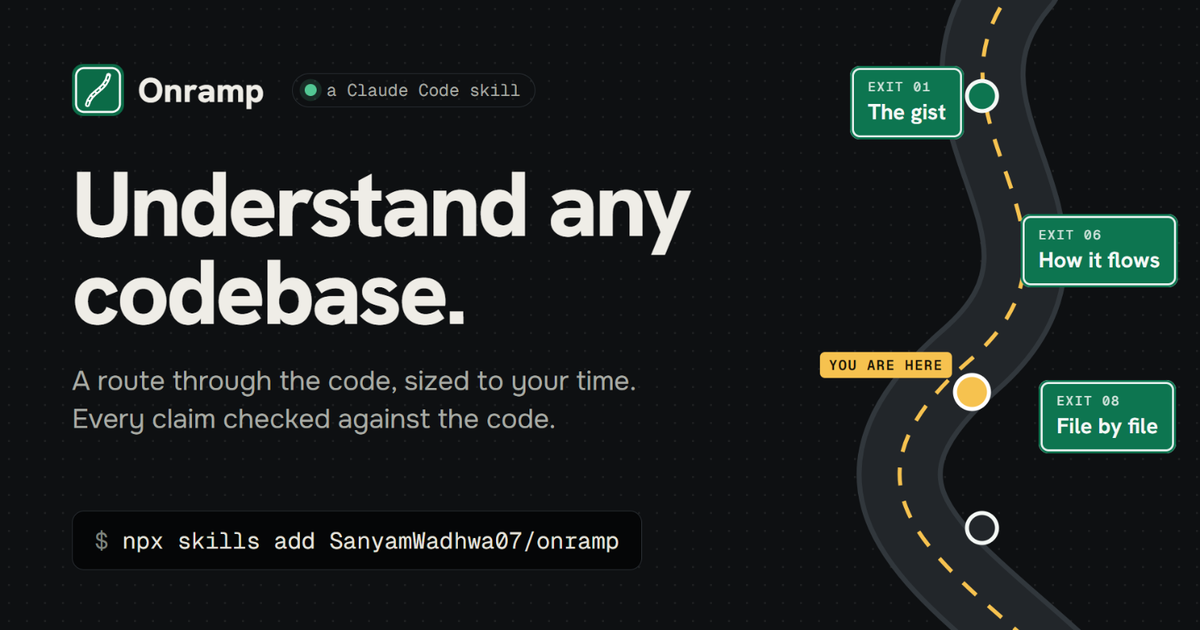
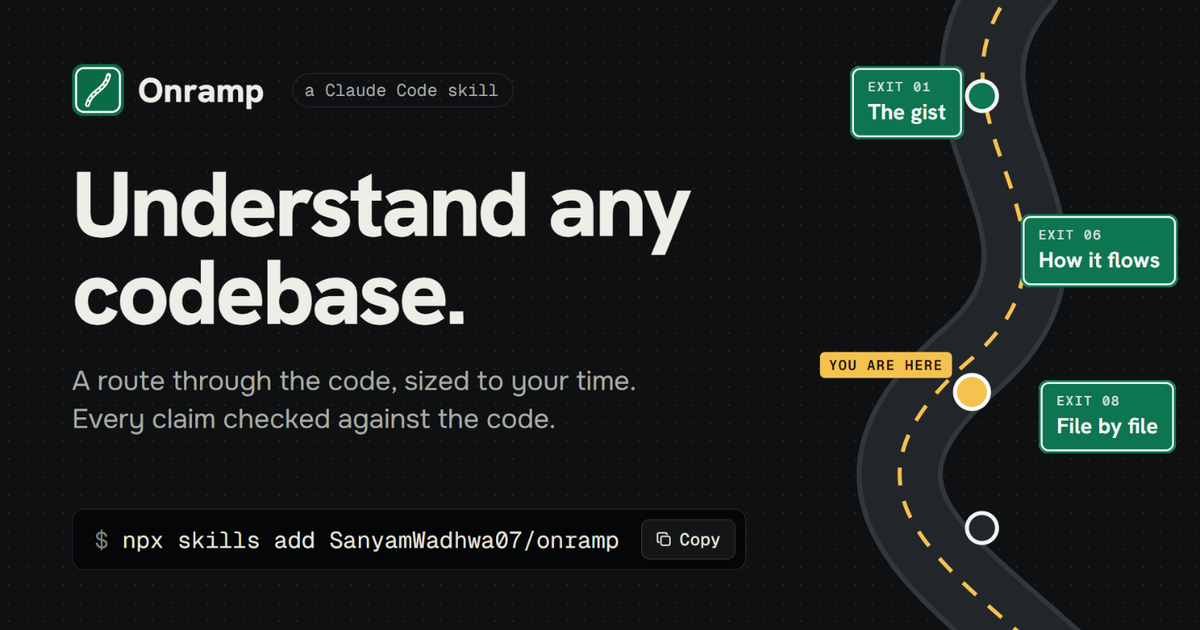
Website: detailed walkthrough, copy buttons, no decorative status dots
- 'What it actually does': eight steps with a scroll-tracked step list and real output
- copy buttons on every command, including the social card's install line
- removed the glowing status dots from the guide header, site and social card
- scan: the dirty flag ignores untracked files such as .onramp/

Changed region(s): [[0.0617, 0.8444, 0.6167, 0.8746], [0.2467, 0.1206, 0.4317, 0.181]]

diff --git a/docs/index.html b/docs/index.html
@@ -54,6 +54,7 @@
   color-scheme: dark;
 }
 *, *::before, *::after { box-sizing: border-box; }
+[hidden] { display: none !important; }
 html { -webkit-text-size-adjust: 100%; scroll-behavior: smooth; scroll-padding-top: 80px; }
 body { margin: 0; background: var(--bg); color: var(--text); font-family: var(--font-body); font-weight: 440; font-size: 1rem; line-height: 1.6; -webkit-font-smoothing: antialiased; }
 a { color: var(--accent); text-underline-offset: 3px; }
@@ -127,7 +128,6 @@ body::before { content: ""; position: fixed; inset: 0 0 auto; height: env(safe-a
 /* strip */
 .strip { border-block: 1px solid var(--border); }
 .strip .wrap { display: flex; flex-wrap: wrap; gap: 10px 34px; padding-block: 18px; font-family: var(--font-mono); font-size: 0.8rem; color: var(--muted); }
-.strip span::before { content: "\25cf"; color: var(--accent); margin-right: 8px; font-size: 0.7em; }
 
 /* rows */
 section.block { padding-block: 88px 24px; }
@@ -146,7 +146,7 @@ section.block { padding-block: 88px 24px; }
 
 /* feature visuals */
 .vis { border: 1px solid var(--border); border-radius: 12px; background: var(--surface); padding: 16px; display: grid; gap: 10px; min-width: 0; }
-.term { background: var(--code-bg); color: var(--code-ink); border-radius: 12px; padding: 16px 18px; font-family: var(--font-mono); font-size: 0.8rem; line-height: 1.7; overflow-x: auto; border: 1px solid var(--border); }
+.term { background: var(--code-bg); color: var(--code-ink); border-radius: 12px; padding: 16px 18px; min-width: 0; font-family: var(--font-mono); font-size: 0.8rem; line-height: 1.7; overflow-x: auto; border: 1px solid var(--border); }
 .term .c { color: var(--code-muted); }
 .term .ok { color: #57d39a; font-weight: 600; }
 .term .fix { color: #f2c35b; }
@@ -174,17 +174,37 @@ section.block { padding-block: 88px 24px; }
 .exit b { font-family: var(--font-head); font-weight: 700; font-size: 1.12rem; }
 .exit span { font-size: 0.84rem; opacity: 0.88; line-height: 1.4; }
 
-/* pipeline */
-.pipe { position: relative; border: 1px solid var(--border); border-radius: 16px; background-color: var(--surface); background-image: radial-gradient(var(--grid-dot) 1px, transparent 1px); background-size: 16px 16px; padding: 30px 24px; display: grid; grid-template-columns: repeat(4, minmax(0, 1fr)); gap: 16px; }
-.pipe::before, .pipe::after { content: ""; position: absolute; width: 16px; height: 16px; border: 1.5px solid var(--border-strong); }
-.pipe::before { top: 10px; left: 10px; border-right: 0; border-bottom: 0; }
-.pipe::after { bottom: 10px; right: 10px; border-left: 0; border-top: 0; }
-.stage { background: var(--bg); border: 1px solid var(--border); border-radius: 10px; padding: 16px; display: grid; gap: 8px; align-content: start; position: relative; }
-.stage:not(:last-child)::after { content: "\2192"; position: absolute; right: -14px; top: 18px; font-family: var(--font-mono); color: var(--subtle); }
-.stage .n { font-family: var(--font-mono); font-size: 0.72rem; color: var(--accent); letter-spacing: 0.06em; }
-.stage h3 { font-size: 1.05rem; font-family: var(--font-mono); font-weight: 600; }
-.stage p { font-size: 0.88rem; color: var(--muted); }
-.stage.check { border-color: color-mix(in srgb, var(--lane-strong) 60%, var(--border)); }
+
+/* walkthrough */
+.walk { display: grid; grid-template-columns: 220px minmax(0, 1fr); gap: 36px; align-items: start; }
+.walk-nav { position: sticky; top: 96px; display: grid; gap: 2px; border-left: 2px solid var(--border); }
+.walk-nav a { display: grid; grid-template-columns: 30px 1fr; padding: 7px 0 7px 14px; margin-left: -2px; border-left: 2px solid transparent; color: var(--muted); text-decoration: none; font-family: var(--font-head); font-weight: 500; }
+.walk-nav a b { font-family: var(--font-mono); font-weight: 500; font-size: 0.78rem; color: var(--subtle); padding-top: 3px; }
+.walk-nav a:hover { color: var(--ink); }
+.walk-nav a.on { color: var(--ink); border-left-color: var(--lane-strong); }
+.walk-nav a.on b { color: var(--lane); }
+.walk-steps { display: grid; min-width: 0; }
+.walk-step { display: grid; gap: 14px; padding-block: 30px 34px; border-top: 1px solid var(--border); scroll-margin-top: 90px; min-width: 0; }
+.walk-step:first-child { border-top: 0; padding-top: 0; }
+.walk-step header { display: flex; flex-wrap: wrap; align-items: baseline; gap: 6px 14px; }
+.walk-step header .no { font-family: var(--font-mono); font-size: 0.86rem; color: var(--accent); }
+.walk-step header h3 { font-weight: 700; font-size: clamp(1.3rem, 2vw, 1.6rem); letter-spacing: -0.015em; }
+.walk-step header .who { margin-left: auto; font-family: var(--font-mono); font-size: 0.72rem; letter-spacing: 0.04em; color: var(--muted); border: 1px solid var(--border); border-radius: 999px; padding: 2px 10px; white-space: nowrap; }
+.walk-step header .who.script { color: var(--accent); border-color: color-mix(in srgb, var(--accent) 40%, var(--border)); }
+.walk-step header .who.claude { color: var(--lane); border-color: color-mix(in srgb, var(--lane) 45%, var(--border)); }
+.walk-step > p { color: var(--muted); max-width: 44em; }
+.walk-step > p strong { color: var(--ink); font-weight: 600; }
+.steps-list { margin: 0; padding-left: 1.2em; display: grid; gap: 6px; color: var(--muted); max-width: 44em; }
+.steps-list strong { color: var(--ink); font-weight: 600; }
+.facts { display: grid; grid-template-columns: auto minmax(0, 1fr); gap: 6px 16px; margin: 0; font-size: 0.92rem; }
+.facts dt { color: var(--subtle); font-family: var(--font-head); font-weight: 500; }
+.facts dd { margin: 0; color: var(--text); }
+kbd { font-family: var(--font-mono); font-size: 0.78em; border: 1px solid var(--border-strong); border-bottom-width: 2px; border-radius: 4px; padding: 0 5px; }
+.term { position: relative; white-space: pre; }
+.term .copy { position: absolute; top: 10px; right: 10px; }
+.cmds .copy { height: 28px; padding: 0 10px; border-color: var(--border); background: var(--surface); color: var(--muted); }
+.cmds .copy:hover { color: var(--ink); background: var(--surface-2); }
+.cmds td.c-copy { width: 1%; padding-left: 16px; text-align: right; }
 
 /* demos */
 .demos { display: grid; grid-template-columns: repeat(2, minmax(0, 1fr)); gap: 16px; }
@@ -217,17 +237,17 @@ footer .wrap { display: flex; flex-wrap: wrap; justify-content: space-between; g
 footer a { color: var(--muted); }
 
 @media (max-width: 960px) {
+  .walk { grid-template-columns: minmax(0, 1fr); gap: 8px; }
+  .walk-nav { top: 64px; z-index: 5; display: flex; overflow-x: auto; gap: 4px; border-left: 0; border-bottom: 1px solid var(--border); background: var(--bg); padding-block: 8px; margin-inline: -4px; scrollbar-width: none; }
+  .walk-nav a { grid-template-columns: auto auto; gap: 6px; border-left: 0; margin: 0; padding: 6px 10px; border-radius: 6px; white-space: nowrap; }
+  .walk-nav a.on { background: var(--surface-2); }
   .hero { grid-template-columns: minmax(0, 1fr); padding-top: 44px; gap: 40px; }
   .row { grid-template-columns: minmax(0, 1fr); gap: 16px; }
   .row .content { grid-template-columns: minmax(0, 1fr); }
-  .pipe { grid-template-columns: repeat(2, minmax(0, 1fr)); }
-  .stage:nth-child(2)::after { display: none; }
   .demos { grid-template-columns: minmax(0, 1fr); }
   .nav-links { display: none; }
 }
 @media (max-width: 560px) {
-  .pipe { grid-template-columns: minmax(0, 1fr); }
-  .stage::after { display: none; }
   .cmds td:first-child { white-space: normal; word-break: break-word; }
   .nav .btn span { display: none; }
 }
@@ -385,14 +405,85 @@ footer a { color: var(--muted); }
 
   <section class="wrap block" id="how">
     <div class="block-head">
-      <span class="eyebrow">How it works</span>
-      <h2>Deterministic where it can be. Checked where it can't.</h2>
+      <span class="eyebrow">What it actually does</span>
+      <h2>Eight steps from <span class="mono" style="font-weight:600">/onramp</span> to understanding.</h2>
+      <p>Scripts do every step that can be done without a model. Claude reads and writes. A script checks Claude's work before you ever see it. This is the real output from running it on PaperMind.</p>
     </div>
-    <div class="pipe">
-      <div class="stage"><span class="n">01 &middot; NO MODEL</span><h3>scan.py</h3><p>Files, languages, manifests, entry points, an import graph for eight language families, git history and env vars. Ranks what to read first.</p></div>
-      <div class="stage"><span class="n">02 &middot; CLAUDE</span><h3>read &amp; write</h3><p>Claude reads in that order and follows real actions from the click to the database. It writes lessons with time estimates, flows, file cards, decisions and risks.</p></div>
-      <div class="stage check"><span class="n">03 &middot; NO MODEL</span><h3>verify.py</h3><p>Checks every citation against the code. Fixes drift, rejects unsupported claims, and loops until clean.</p></div>
-      <div class="stage"><span class="n">04 &middot; NO MODEL</span><h3>render.py</h3><p>One self-contained HTML page with the real excerpts embedded, plus a <span class="mono">GUIDE.md</span> for GitHub and agents.</p></div>
+    <div class="walk">
+      <nav class="walk-nav" aria-label="Steps">
+        <a href="#step-run"><b>01</b>You run it</a>
+        <a href="#step-scan"><b>02</b>Scan</a>
+        <a href="#step-history"><b>03</b>History</a>
+        <a href="#step-read"><b>04</b>Read</a>
+        <a href="#step-write"><b>05</b>Write</a>
+        <a href="#step-verify"><b>06</b>Verify</a>
+        <a href="#step-render"><b>07</b>Render</a>
+        <a href="#step-learn"><b>08</b>Learn</a>
+      </nav>
+      <div class="walk-steps">
+        <article class="walk-step" id="step-run">
+          <header><span class="no">01</span><h3>You run it</h3><span class="who">you</span></header>
+          <p>Open Claude Code in any repository and type the command. Point it at a subfolder to cover one package of a monorepo. Claude says what it is doing at each step, and everything it produces goes into <span class="mono">.onramp/</span>. Your code is never modified.</p>
+          <div class="term"><div><span class="c">&gt;</span> /onramp</div><button class="copy" type="button" data-copy="/onramp">Copy</button></div>
+          <dl class="facts"><dt>Writes</dt><dd><span class="mono">.onramp/index.html</span>, <span class="mono">GUIDE.md</span>, <span class="mono">guide.json</span>, <span class="mono">scan.json</span></dd><dt>Needs</dt><dd>Python 3.8+ and nothing else</dd></dl>
+        </article>
+
+        <article class="walk-step" id="step-scan">
+          <header><span class="no">02</span><h3>Scan the repository</h3><span class="who script">script &middot; no model</span></header>
+          <p><span class="mono">scan.py</span> takes inventory in seconds, without a model. It reads <span class="mono">.gitignore</span>, counts files and lines per language, parses manifests, finds entry points and env vars, and builds an import graph for JS/TS, Python, Go, Rust, Java/Kotlin, C/C++, Ruby and PHP. It also reads git history for churn and a timeline.</p>
+          <p>Every file then gets an importance score. The score goes up with how many files import it, how often it changed, how big it is and whether execution starts there. Claude reads in that order, so the first hour goes to the files that matter. The maps in the guide are drawn from this graph rather than imagined.</p>
+          <div class="term"><div><span class="c">$</span> python scan.py .</div><div>ONRAMP SCAN  PaperMind</div><div>files 186 (source 153, tests 0), 31575 lines of code</div><div>languages: Python 69%, JavaScript 30%, CSS 1%</div><div>git: 20 commits by 2 author(s), 2025-11-20 -&gt; 2026-10-29</div><div>claude sessions: 1 transcript(s)</div><div>&nbsp;</div><div class="c">read first (importance):</div><div>  100.0  frontend/src/components/ui/primitives.jsx  used by 30</div><div>   89.5  backend/main.py                            used by 5</div><div>   80.9  core/agents/base_agent.py                  used by 11</div><div>   79.1  core/agents/orchestrator.py                used by 2</div></div>
+        </article>
+
+        <article class="walk-step" id="step-history">
+          <header><span class="no">03</span><h3>Ask about history</h3><span class="who">you decide</span></header>
+          <p>If the scan finds Claude Code transcripts for the project, Claude asks once whether to use them. If you say yes, <span class="mono">sessions.py</span> pairs every file Claude wrote or edited with the prompt that led to it and the explanation Claude gave just before the edit. That becomes evidence for the "how it was built" and "why" chapters.</p>
+          <p>Transcripts are read from your disk and never leave it. Anything that looks like an API key or token is redacted. Claude Code deletes transcripts after about 30 days by default, so older projects lean on git history instead.</p>
+          <div class="term"><div class="c">Claude</div><div>I found 1 Claude Code session for this project. Should I use it</div><div>to explain why things were built? It stays on your machine.</div></div>
+        </article>
+
+        <article class="walk-step" id="step-read">
+          <header><span class="no">04</span><h3>Read the code</h3><span class="who claude">Claude</span></header>
+          <p>Claude reads in a fixed order:</p>
+          <ol class="steps-list"><li>the README, <span class="mono">CLAUDE.md</span> and docs</li><li>manifests and config, which say how it installs and runs</li><li>entry points, then the top of the importance ranking</li><li>for each important user action, every call from the entry point to storage and back</li></ol>
+          <p>One rule overrides speed: Claude never describes a file it has not opened. On large repositories it fans out, one subagent per module, each writing file cards in parallel, while Claude traces the main flows itself.</p>
+        </article>
+
+        <article class="walk-step" id="step-write">
+          <header><span class="no">05</span><h3>Write the guide</h3><span class="who claude">Claude</span></header>
+          <p>The guide is a JSON file of <strong>lessons</strong>, the stops on your route. Each lesson teaches one idea and records which chapter it belongs to, how essential it is (core, standard or deep), how many minutes it takes and which goals it serves. That metadata is what lets one guide become a 1-hour route or a 1-week route.</p>
+          <p>Around the lessons sit the structured parts: traced flows, file cards, the stack with primers for newcomers, the data model, build-order milestones, decisions marked documented or inferred, risks and exercises. Every technical sentence carries a citation.</p>
+          <div class="term"><div class="c">{</div><div>  "id": "flow-order", "chapter": "flows", "tier": "core", "minutes": 7,</div><div>  "summary": "The page posts the checked SKUs, the server prices them,</div><div>              the store saves the order and the page shows the total.",</div><div>  "body": "... unknown SKUs raise <span class="ok">[[app/store.py:29-38|def place_order(]]</span> ..."</div><div class="c">}</div></div>
+        </article>
+
+        <article class="walk-step" id="step-verify">
+          <header><span class="no">06</span><h3>Verify every claim</h3><span class="who script">script &middot; no model</span></header>
+          <p><span class="mono">verify.py</span> opens every cited file and checks three things: the file exists, the lines exist, and the quoted text is inside those lines. Each citation ends one of three ways:</p>
+          <ul class="steps-list"><li><strong>Verified.</strong> The text is where the guide says it is.</li><li><strong>Re-anchored.</strong> The text is in the file but the line numbers drifted, so the citation moves to where it really is.</li><li><strong>Rejected.</strong> The text is nowhere in the file. Claude re-reads the code and rewrites the claim, then runs the check again.</li></ul>
+          <p>The guide is only built when the check passes. Its badge states how many claims were checked and at which commit.</p>
+          <div class="term" id="verify-out"><div><span class="c">$</span> python verify.py . --fix</div><div><span class="ok">OK</span>  35/35 citations verified across 4 files, 0 auto-fixed</div></div>
+        </article>
+
+        <article class="walk-step" id="step-render">
+          <header><span class="no">07</span><h3>Render one file</h3><span class="who script">script &middot; no model</span></header>
+          <p><span class="mono">render.py</span> builds a single HTML page with the guide, the computed maps and the real code behind every citation embedded in it. It opens straight from disk with no server, and works offline apart from fonts, diagrams and syntax colours. It also writes <span class="mono">GUIDE.md</span>, the same guide as markdown, for GitHub and for other agents. Render with <span class="mono">--public</span> to share it without your local paths.</p>
+          <div class="term" id="render-out"><div><span class="c">$</span> python render.py . --open</div><div>ONRAMP RENDER  .onramp/index.html  (134 KB, 12 lessons, 28 code excerpts)</div><div>markdown      .onramp/GUIDE.md</div></div>
+        </article>
+
+        <article class="walk-step" id="step-learn">
+          <header><span class="no">08</span><h3>Learn it your way</h3><span class="who">you</span></header>
+          <p>The guide opens on three questions: how much time you have, what you want to do, and your background. Then it plans your route and draws it as a road.</p>
+          <ul class="steps-list">
+            <li><strong>Stops</strong> start with a one-line summary, then the explanation, a "go deeper" section and a checkpoint question.</li>
+            <li><strong>Citations</strong> open the real code beside the text, with the cited lines highlighted and links to your editor or GitHub.</li>
+            <li><strong>Files</strong> shows every file the guide explains, what it depends on and what uses it.</li>
+            <li><strong>Map</strong> shows the architecture, the computed dependency graph, languages and history.</li>
+            <li><strong>Search</strong> covers stops, files, ideas and flows. Press <kbd>Ctrl K</kbd>.</li>
+          </ul>
+          <p>Prefer a conversation? <span class="mono">/onramp tutor</span> walks the same route in chat, one stop at a time, and remembers where you stopped.</p>
+          <div><a class="sign" href="demo/papermind/">Open the PaperMind guide <span class="mono">&rarr;</span></a></div>
+        </article>
+      </div>
     </div>
   </section>
 
@@ -423,15 +514,15 @@ footer a { color: var(--muted); }
   <section class="wrap block">
     <div class="block-head">
       <span class="eyebrow">Commands</span>
-      <h2>One command, five ways in.</h2>
+      <h2>One skill, six ways in.</h2>
     </div>
     <table class="cmds">
-      <tr><td>/onramp</td><td>The full guide for this repository, opened in your browser.</td></tr>
-      <tr><td>/onramp quick</td><td>The 1-hour route only. Faster and cheaper.</td></tr>
-      <tr><td>/onramp explain &lt;file&gt;</td><td>A deep lesson on one file, folder or function, added to the guide.</td></tr>
-      <tr><td>/onramp trace "&lt;action&gt;"</td><td>One user action followed through the code, step by step.</td></tr>
-      <tr><td>/onramp update</td><td>Refresh the guide after the code changed, re-reading only what moved.</td></tr>
-      <tr><td>/onramp tutor</td><td>Claude teaches you the route in chat, with checkpoint questions.</td></tr>
+      <tr><td>/onramp</td><td>The full guide for this repository, opened in your browser.</td><td class="c-copy"><button class="copy" type="button" data-copy="/onramp">Copy</button></td></tr>
+      <tr><td>/onramp quick</td><td>The 1-hour route only. Faster and cheaper.</td><td class="c-copy"><button class="copy" type="button" data-copy="/onramp quick">Copy</button></td></tr>
+      <tr><td>/onramp explain &lt;file&gt;</td><td>A deep lesson on one file, folder or function, added to the guide.</td><td class="c-copy"><button class="copy" type="button" data-copy="/onramp explain ">Copy</button></td></tr>
+      <tr><td>/onramp trace "&lt;action&gt;"</td><td>One user action followed through the code, step by step.</td><td class="c-copy"><button class="copy" type="button" data-copy="/onramp trace &quot;&quot;">Copy</button></td></tr>
+      <tr><td>/onramp update</td><td>Refresh the guide after the code changed, re-reading only what moved.</td><td class="c-copy"><button class="copy" type="button" data-copy="/onramp update">Copy</button></td></tr>
+      <tr><td>/onramp tutor</td><td>Claude teaches you the route in chat, with checkpoint questions.</td><td class="c-copy"><button class="copy" type="button" data-copy="/onramp tutor">Copy</button></td></tr>
     </table>
   </section>
 
@@ -475,7 +566,7 @@ footer a { color: var(--muted); }
     if (navigator.clipboard && navigator.clipboard.writeText) navigator.clipboard.writeText(text).then(done, function () { select(b); });
     else select(b);
   });
-  function select(b) { var r = document.createRange(); r.selectNodeContents(b.previousElementSibling); var s = getSelection(); s.removeAllRanges(); s.addRange(r); }
+  function select(b) { var t = b.previousElementSibling; if (!t) return; var r = document.createRange(); r.selectNodeContents(t); var s = getSelection(); s.removeAllRanges(); s.addRange(r); }
 
   var root = document.documentElement;
   document.getElementById("theme").addEventListener("click", function () {
@@ -484,6 +575,21 @@ footer a { color: var(--muted); }
     root.setAttribute("data-theme", next);
     try { localStorage.setItem("onramp:theme", next); } catch (err) { /* storage unavailable */ }
   });
+
+  var walkLinks = Array.prototype.slice.call(document.querySelectorAll(".walk-nav a"));
+  if ("IntersectionObserver" in window && walkLinks.length) {
+    var io = new IntersectionObserver(function (entries) {
+      entries.forEach(function (en) {
+        if (!en.isIntersecting) return;
+        walkLinks.forEach(function (a) {
+          var on = a.getAttribute("href") === "#" + en.target.id;
+          a.classList.toggle("on", on);
+          if (on && a.parentNode.scrollWidth > a.parentNode.clientWidth) a.parentNode.scrollLeft = a.offsetLeft - 16;
+        });
+      });
+    }, { rootMargin: "-35% 0px -60% 0px" });
+    document.querySelectorAll(".walk-step").forEach(function (el) { io.observe(el); });
+  }
 
   var EXITS = [
     ["The gist", "What it is, who it's for, the one-paragraph model"],

diff --git a/docs/assets/og.html b/docs/assets/og.html
@@ -16,18 +16,19 @@
   h1 { margin: 18px 0 0; font-family: "Hanken Grotesk", sans-serif; font-weight: 800; font-size: 92px; line-height: 0.96; letter-spacing: -0.035em; }
   p { margin: 0; font-size: 27px; line-height: 1.4; color: #a9aca5; max-width: 600px; }
   .cmd { position: absolute; left: 72px; bottom: 60px; font-family: "Geist Mono", monospace; font-size: 23px; color: #e6e4de; background: #050607; border: 1px solid #2a2f34; border-radius: 12px; padding: 14px 22px; }
-  .cmd span { color: #7e837d; }
-  svg { position: absolute; right: 0; top: 0; }
+  .cmd { display: flex; align-items: center; padding: 10px 10px 10px 22px; }
+  .cmd span { color: #7e837d; white-space: pre; }
+  .cmd .copy { margin-left: 22px; display: inline-flex; align-items: center; gap: 8px; font-weight: 500; font-size: 17px; color: #e6e4de; border: 1px solid rgba(255, 255, 255, 0.16); background: rgba(255, 255, 255, 0.06); border-radius: 8px; padding: 8px 14px; }
+  svg.road { position: absolute; right: 0; top: 0; }
   .sign { position: absolute; background: #0d7550; color: #f4f8f5; border-radius: 10px; padding: 12px 18px 13px; box-shadow: inset 0 0 0 2px #0d7550, inset 0 0 0 4px rgba(255, 255, 255, 0.9); font-family: "Hanken Grotesk", sans-serif; font-weight: 700; font-size: 22px; display: grid; gap: 2px; }
   .sign small { font-family: "Geist Mono", monospace; font-size: 13px; letter-spacing: 0.1em; opacity: 0.85; font-weight: 500; }
   .here { position: absolute; font-family: "Geist Mono", monospace; font-weight: 600; font-size: 14px; letter-spacing: 0.08em; background: #f6c24f; color: #1a1406; border-radius: 5px; padding: 4px 9px; }
   .check { margin-left: 14px; font-family: "Geist Mono", monospace; font-weight: 400; font-size: 17px; color: #a9aca5; display: flex; align-items: center; gap: 10px; border: 1px solid #2a2f34; border-radius: 999px; padding: 5px 14px 5px 12px; letter-spacing: 0; }
-  .check i { width: 12px; height: 12px; border-radius: 50%; background: #52c893; box-shadow: 0 0 0 5px rgba(82, 200, 147, 0.15); }
 </style>
 </head>
 <body>
 <div id="card">
-  <svg width="480" height="630" viewBox="0 0 480 630" aria-hidden="true">
+  <svg class="road" width="480" height="630" viewBox="0 0 480 630" aria-hidden="true">
     <path d="M300 -20 C 180 120, 400 230, 250 360 S 220 560, 330 660" fill="none" stroke="#31373c" stroke-width="86" stroke-linecap="round"/>
     <path d="M300 -20 C 180 120, 400 230, 250 360 S 220 560, 330 660" fill="none" stroke="#22262a" stroke-width="76" stroke-linecap="round"/>
     <path d="M300 -20 C 180 120, 400 230, 250 360 S 220 560, 330 660" fill="none" stroke="#f6c24f" stroke-width="4" stroke-dasharray="18 16"/>
@@ -42,11 +43,11 @@
   <div class="sign" style="right: 24px; top: 380px;"><small>EXIT 08</small>File by file</div>
 
   <div class="left">
-    <div class="brand"><img src="logo.svg" alt="">Onramp<span class="check"><i></i>a Claude Code skill</span></div>
+    <div class="brand"><img src="logo.svg" alt="">Onramp<span class="check">a Claude Code skill</span></div>
     <h1>Understand any codebase.</h1>
     <p>A route through the code, sized to your time. Every claim checked against the code.</p>
   </div>
-  <div class="cmd"><span>$ </span>npx skills add SanyamWadhwa07/onramp</div>
+  <div class="cmd"><span>$ </span>npx skills add SanyamWadhwa07/onramp<b class="copy"><svg viewBox="0 0 16 16" width="16" height="16" aria-hidden="true"><rect x="5" y="5" width="9" height="9" rx="2" fill="none" stroke="currentColor" stroke-width="1.5"/><path d="M11 3.5V3a1.5 1.5 0 0 0-1.5-1.5H3A1.5 1.5 0 0 0 1.5 3v6.5A1.5 1.5 0 0 0 3 11h.5" fill="none" stroke="currentColor" stroke-width="1.5"/></svg>Copy</b></div>
 </div>
 </body>
 </html>

diff --git a/skills/onramp/assets/viewer.css b/skills/onramp/assets/viewer.css
@@ -103,8 +103,6 @@ body::before { content: ""; position: fixed; inset: 0 0 auto; height: env(safe-a
 .tool-btn svg { width: 18px; height: 18px; fill: none; stroke: currentColor; stroke-width: 1.6; stroke-linecap: round; }
 .tool-btn svg .fill { fill: currentColor; stroke: none; }
 .trust { display: inline-flex; align-items: center; gap: 7px; height: 34px; padding: 0 11px; border-radius: 7px; border: 1px solid var(--border); background: var(--surface); font-family: var(--font-mono); font-size: 0.74rem; color: var(--muted); cursor: pointer; white-space: nowrap; }
-.trust .dot { width: 8px; height: 8px; border-radius: 50%; background: var(--accent); box-shadow: 0 0 0 3px var(--accent-dim); }
-.trust.none .dot { background: var(--subtle); box-shadow: none; }
 .trust b { color: var(--ink); font-weight: 600; }
 
 /* ---------- page frame */

diff --git a/skills/onramp/assets/viewer.js b/skills/onramp/assets/viewer.js
@@ -203,11 +203,11 @@
   function trustBadge() {
     var v = G.verification, b = $("#trust");
     if (v && v.citations) {
-      b.innerHTML = '<span class="dot"></span><b>' + fmtNum(v.verified) + "/" + fmtNum(v.citations) + '</b><span class="long">&nbsp;claims verified' + (v.commit ? " · " + esc(v.commit) : "") + "</span>";
+      b.innerHTML = '<b>' + fmtNum(v.verified) + "/" + fmtNum(v.citations) + '</b><span class="long">&nbsp;claims verified' + (v.commit ? " · " + esc(v.commit) : "") + "</span>";
       b.title = "Every citation was checked against the code";
     } else {
       b.className = "trust none";
-      b.innerHTML = '<span class="dot"></span><span class="long">not verified</span>';
+      b.innerHTML = '<span class="long">not verified</span>';
     }
   }
   function footer() {

diff --git a/skills/onramp/scripts/scan.py b/skills/onramp/scripts/scan.py
@@ -489,7 +489,7 @@ def git_facts(root, files_set):
     facts["remote"] = remote or None
     m = re.search(r"github\.com[:/]([\w.\-]+)/([\w.\-]+?)(?:\.git)?$", remote)
     facts["github"] = ("https://github.com/%s/%s" % (m.group(1), m.group(2))) if m else None
-    dirty = run_git(root, "status", "--porcelain")
+    dirty = run_git(root, "status", "--porcelain", "--untracked-files=no")
     facts["dirty"] = bool(dirty and dirty.strip())
     log = run_git(root, "log", "--no-merges", "-n", "3000", "--date=short",
                   "--pretty=format:\x1e%H\t%ad\t%an\t%s", "--name-only")
